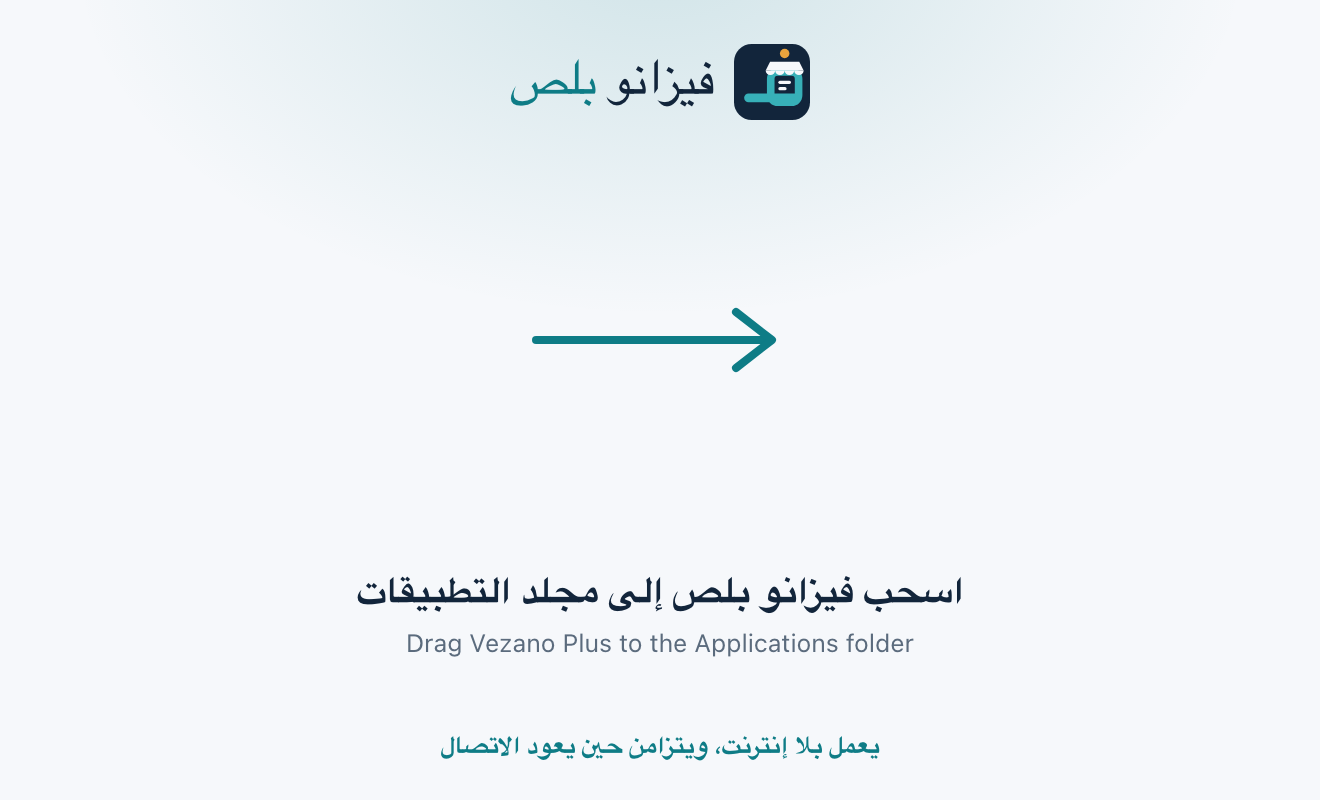
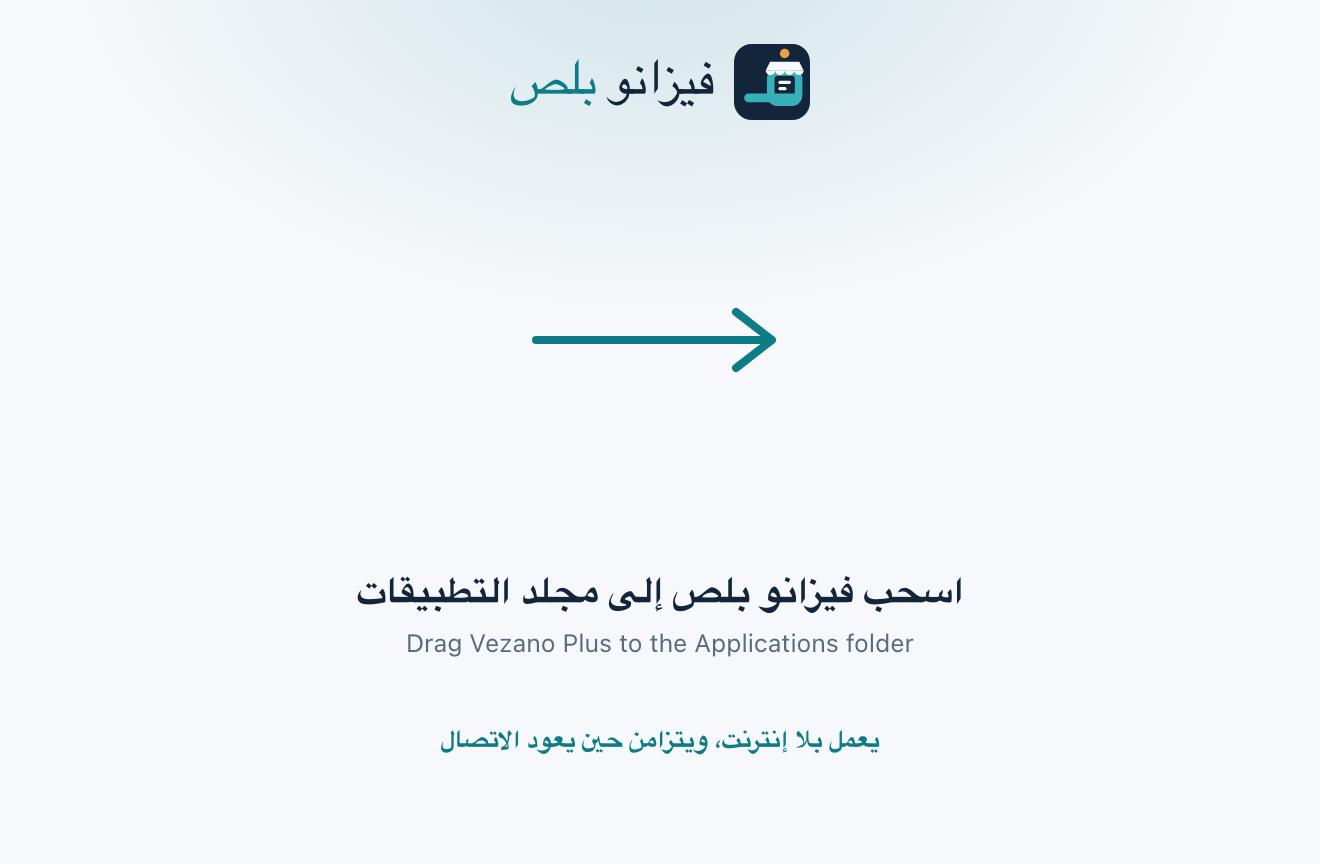
fix(desktop): نافذة DMG — الارتفاع يشمل شريط العنوان فكان السطر الأخير خارجها (§٢٥٩)
تحقّق من مسودة 0.1.4: النافذة سليمة بالهوية والسهم والتعليمات، لكن windowSize.height يشمل
شريط العنوان (32 نقطة) فالمحتوى المرئي 368 لا 400.

- النافذة 432 (محتوى 400)، والخلفية 660×432 بنصوص بإحداثي من الأعلى.

يدخل مع الإصدار التالي؛ مسودة 0.1.4 المبنية لا تحمله.

diff --git a/docs/decisions/0005-acc-01-02-frame-conflicts-and-identity.md b/docs/decisions/0005-acc-01-02-frame-conflicts-and-identity.md
@@ -3772,3 +3772,17 @@
   - `.msi` بواجهة ويندوز القياسية بلا هوية ولا عربية.
   - تحذير «تطبيق غير موثّق» باقٍ حتى تتوفر شهادتا آبل وويندوز.
   - شاشة الترحيب لا يُعاد فتحها من القائمة بعد «ابدأ».
+
+## ٢٥٩ · 2026-11-11: نافذة DMG — الارتفاع يشمل شريط العنوان (تحقّق من مسودة 0.1.4 بأمر المالك: «نعم، تحقّق»)
+
+**التحقق:** نُزّل `Vezano.Plus_0.1.4_universal.dmg` من المسودة وفُتح: النسخة 0.1.4، عام (arm64 وx86_64)، الخلفية
+هي ملف المستودع نفسه، النافذة 660×400 بعرض الأيقونات، أيقونة التطبيق عند (180,170) ومجلد التطبيقات عند
+(480,170)، والهوية والسهم والتعليمات بالعربية والإنجليزية في مواضعها.
+
+**العيب:** `windowSize.height` هو ارتفاع النافذة **بشريط عنوانها** (32 نقطة هنا)، فالمحتوى المرئي 368 لا 400،
+والسطر الأخير («يعمل بلا إنترنت، ويتزامن حين يعود الاتصال») خارج النافذة كله. بقية النافذة سليمة.
+
+**القرار:** ارتفاع النافذة 432 (محتوى 400)، والخلفية 660×432 بنصوص موضوعة بإحداثي من الأعلى ضمن 400.
+مسودة 0.1.4 المبنية لا تحمل هذا التعديل — يدخل مع الإصدار التالي.
+
+- **لم يُنفَّذ:** لم يُبنَ DMG جديد للتحقق من الارتفاع الجديد؛ الحساب من قياس النافذة المفتوحة.
